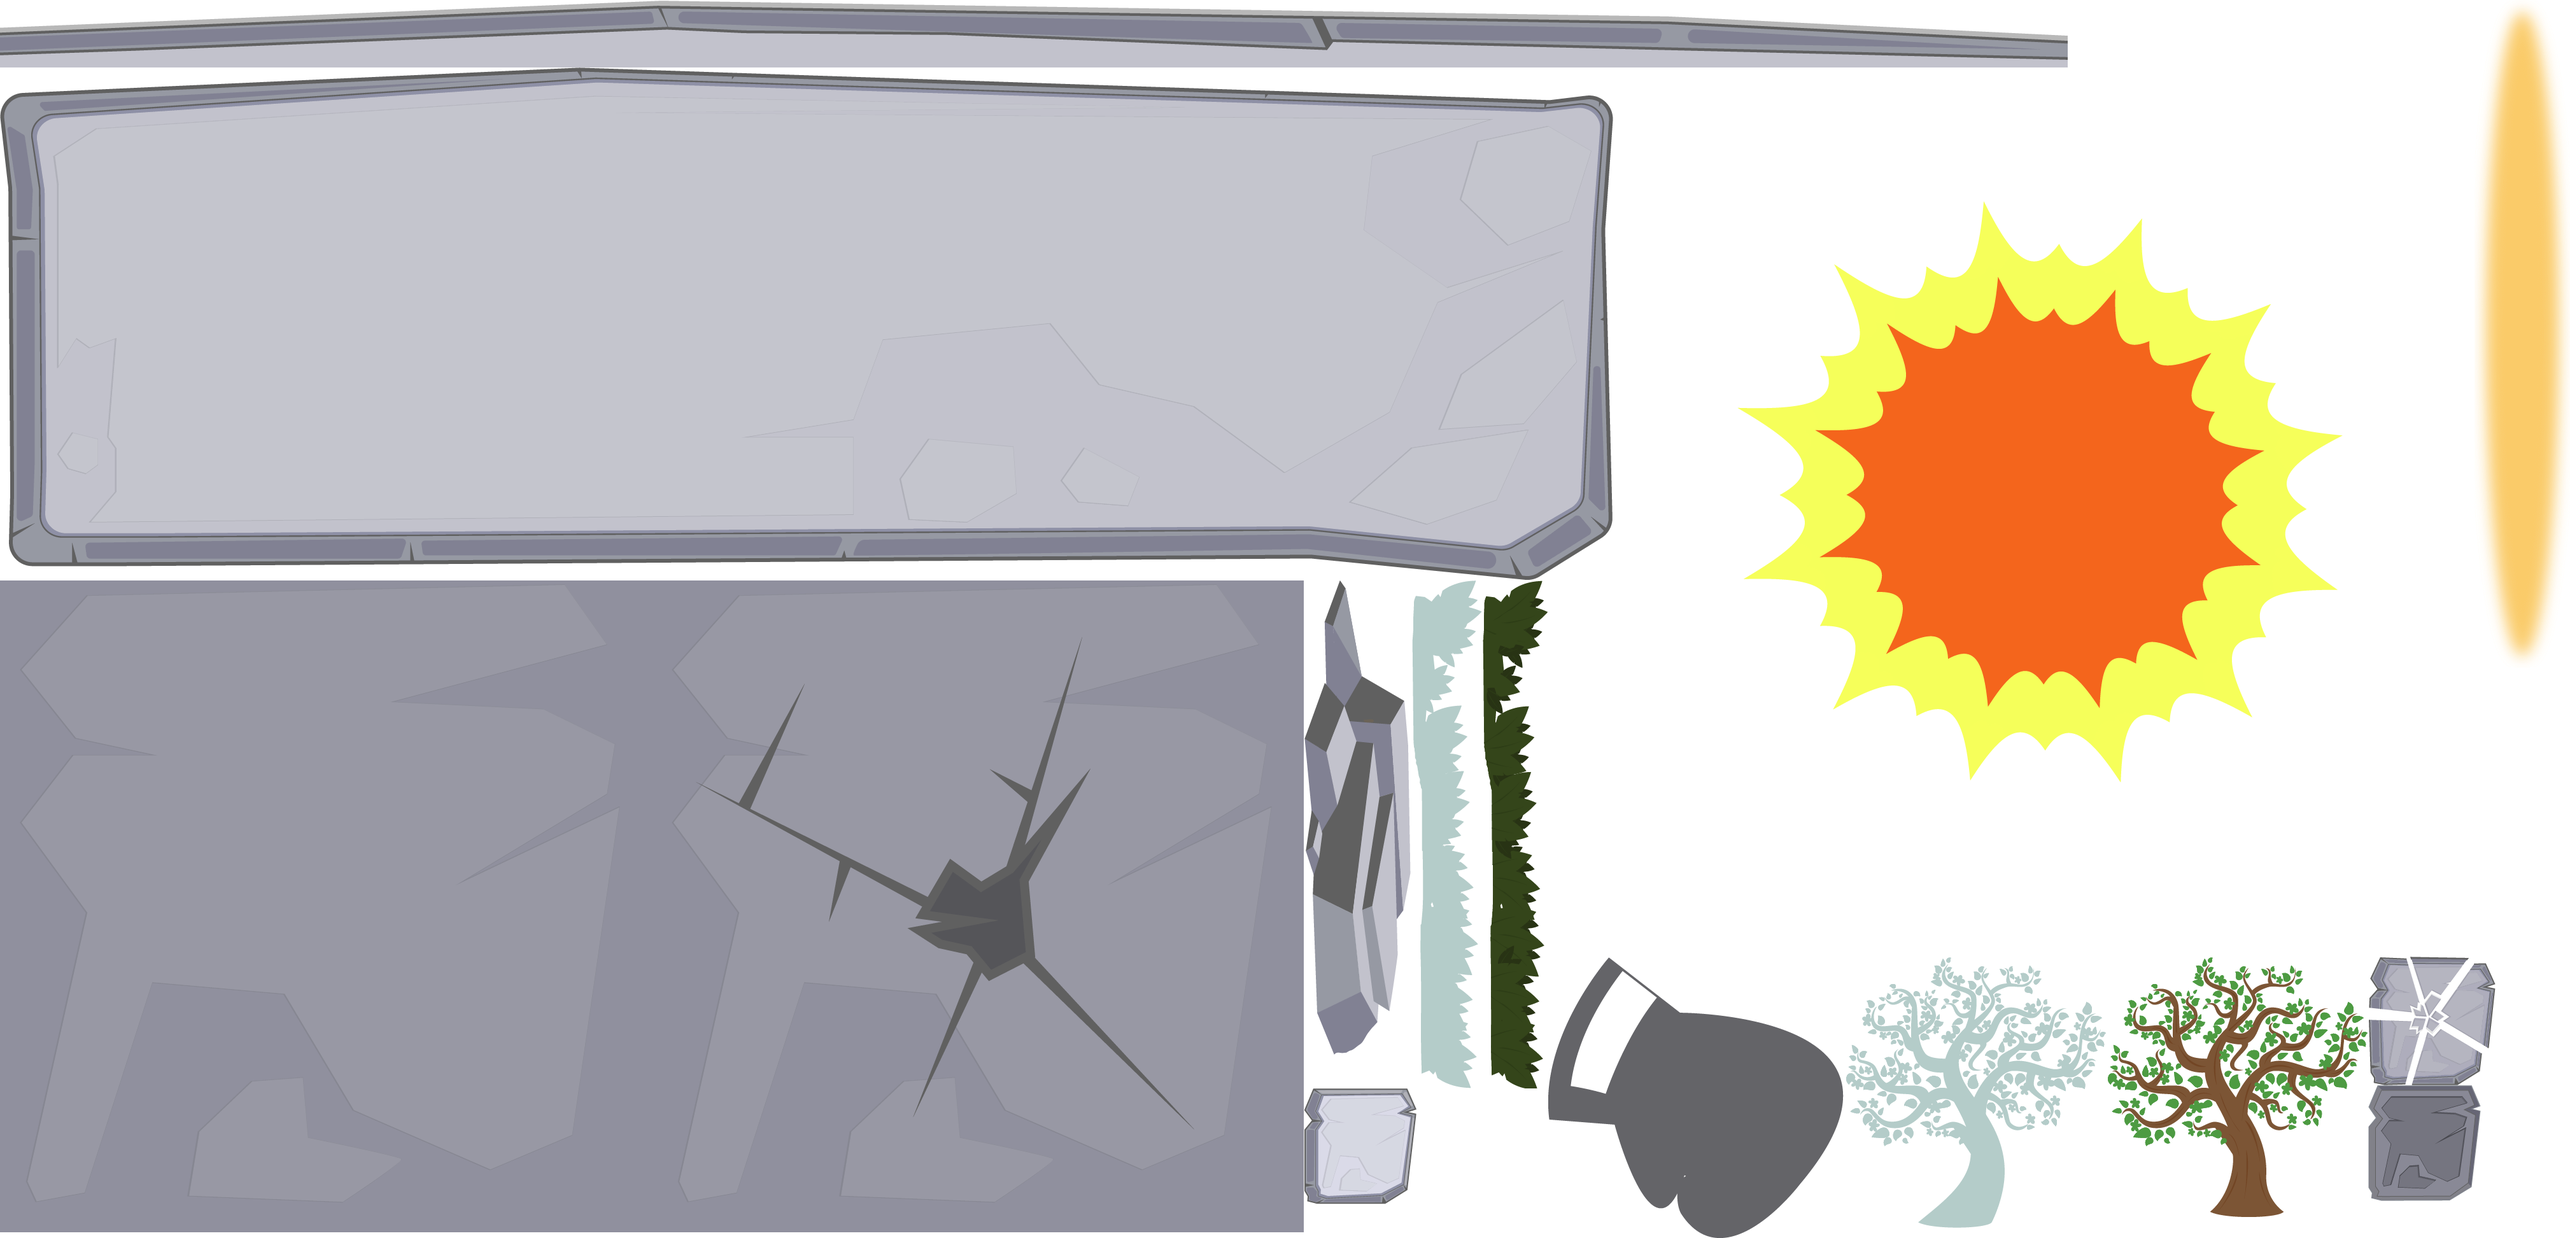
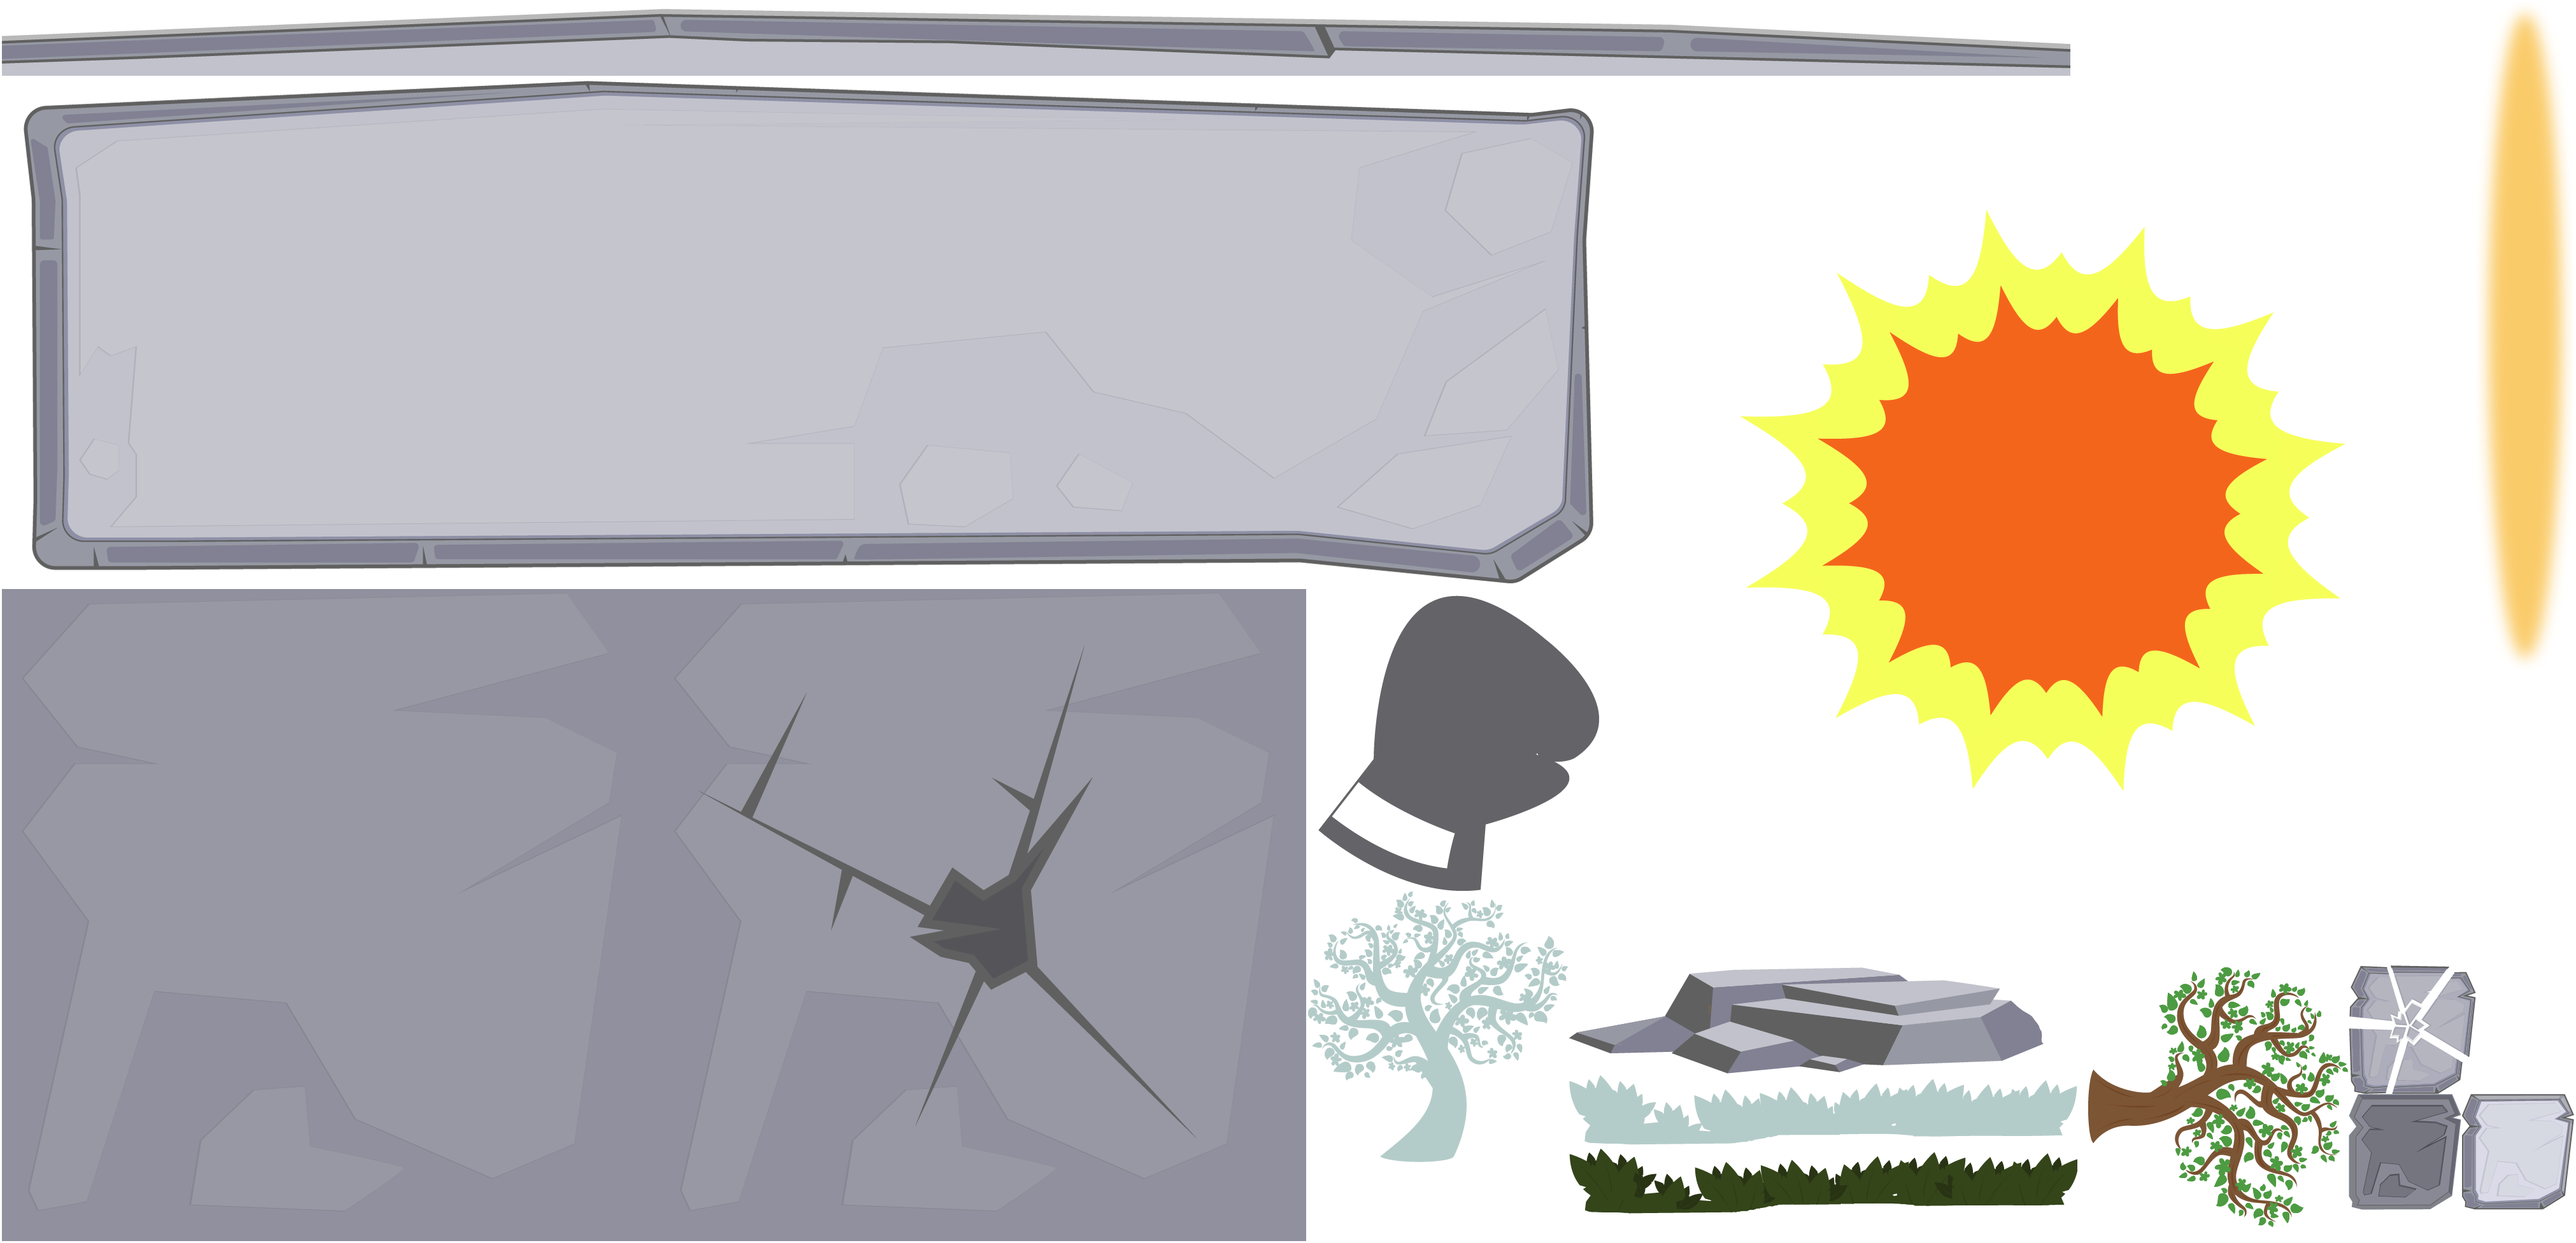
smash the rock

diff --git a/safari/Classes/mini_games/SmashTheRockScene.cpp b/safari/Classes/mini_games/SmashTheRockScene.cpp
@@ -79,10 +79,27 @@ bool SmashTheRock::init()
 	key = alphabetMap.at(mapString.c_str());
 
 
-    background = CSLoader::createNode("smash_de_rock/MainScene.csb");
+    background = CSLoader::createNode("smash_de_rock/bg.csb");
 	//background->setPosition(Point((visibleSize.width / 2) + origin.x, (visibleSize.height / 2) + origin.y));
 	this->addChild(background, 0);
 	
+	centre = CSLoader::createNode("smash_de_rock/center.csb");
+	centre->setPositionX(visibleSize.width / 2);
+	centre->setAnchorPoint(Vec2(0.5,0));
+    this->addChild(centre,1);
+
+	/*auto letterRock = (Sprite *)centre->getChildByName("letterboard");
+	letterRock->setGlobalZOrder(5);
+	auto boundary = (Sprite *)centre->getChildByName("boundary");
+	boundary->setGlobalZOrder(4);
+	auto punchHandLeft = (Sprite *)centre->getChildByName("boxing_gloves_left");
+	punchHandLeft->setGlobalZOrder(3);
+	auto punchHandRight = (Sprite *)centre->getChildByName("boxing_gloves_right");
+	punchHandRight->setGlobalZOrder(3);
+	
+	auto stone_bace = (Sprite *)centre->getChildByName("stone_bace");
+	stone_bace->setGlobalZOrder(0);*/
+
 
 	auto spritecache1 = SpriteFrameCache::getInstance();
 	spritecache1->addSpriteFramesWithFile("smash_de_rock/smashderock_01.plist");
@@ -99,7 +116,7 @@ bool SmashTheRock::init()
 
 	for (int i = 1; i < 4; i++)
 	{
-		int blockHeight = i*(block->getContentSize().height + 20) + 30;
+		int blockHeight = i*(block->getContentSize().height + 20) + 10;
 		sizei = block->getContentSize().height + 20;
 		CCLOG("sizei = %d", sizei);
 		for (int j = 1; j < 12; j++)
@@ -107,7 +124,7 @@ bool SmashTheRock::init()
 			auto block1 = Sprite::createWithSpriteFrameName("smash_de_rock/letter_normal.png");
 			auto right = Sprite::createWithSpriteFrameName("smash_de_rock/letter_correct.png");
 			auto wrong = Sprite::createWithSpriteFrameName("smash_de_rock/letter_wrong.png");
-			int blockWidth = j*(block->getContentSize().width + 30) + 50;
+			int blockWidth = j*(block->getContentSize().width + 30) + 230;
 			sizej = block->getContentSize().width + 30;
 			CCLOG("sizej = %d", sizej);
 			block1->setAnchorPoint(Vec2(0.5, 0.5));
@@ -124,9 +141,12 @@ bool SmashTheRock::init()
 			blockRef.pushBack(block1);
 			rightRef.pushBack(right);
 			wrongRef.pushBack(wrong);
-			this->addChild(block1);
-			this->addChild(right);
-			this->addChild(wrong);
+			this->addChild(block1,2);
+			//block1->setGlobalZOrder(6);
+			this->addChild(right, 2);
+		//	right->setGlobalZOrder(6);
+			this->addChild(wrong, 2);
+		//	wrong->setGlobalZOrder(6);
 			std::string str = Alphabets.at(cocos2d::RandomHelper::random_int(key, (key + 20)) % 20).c_str();
 			char str1 = charkey.at(i-1).at(j-1);
 			std::string ttttt(&str1,1) ;
@@ -141,8 +161,10 @@ bool SmashTheRock::init()
 			label->setAnchorPoint(Vec2::ANCHOR_MIDDLE_BOTTOM);
 			label->setName(ttttt);
 			labelRef.pushBack(label);
-			this->addChild(label,1);
-			
+			CCLOG("alpha = %d", labelRef.size());
+			this->addChild(label, 2);
+		//	label->setGlobalZOrder(6);
+
 			auto listener = EventListenerTouchOneByOne::create();
 			//listener->setSwallowTouches(true);
 			listener->onTouchBegan = CC_CALLBACK_2(SmashTheRock::onTouchBegan, this);
@@ -219,29 +241,24 @@ void SmashTheRock::jump()
 
 
 }
+
 void SmashTheRock :: hit()
 {
-	Size visibleSize = Director::getInstance()->getVisibleSize();
-	Vec2 origin = Director::getInstance()->getVisibleOrigin();
-	auto blast = Sprite::createWithSpriteFrameName("smash_de_rock/hit.png");
-	blast->setPosition(Vec2(origin.x + (visibleSize.width / 2) + 100, origin.y + (visibleSize.height / 2) + 450));
-	this->addChild(blast);
-	blast->setVisible(false);
-	auto action2 = Blink::create(0.25, 1);
-	//blast->runAction(action2);
-	auto tblast = TargetedAction::create(blast, action2);
-	auto boxLeft = background->getChildByName("boxing_gloves_left");
-	auto action = MoveBy::create(0.25, Point(-120, 250));
+	
+
+
+	auto boxLeft = centre->getChildByName("boxing_gloves_left");
+	auto action = MoveBy::create(0.25, Point(-380, 250));
 	auto rev = action->reverse();
-	auto boxRight = background->getChildByName("boxing_gloves_right");
-	auto action1 = MoveBy::create(0.25, Point(500, 250));
+	auto boxRight = centre->getChildByName("boxing_gloves_right");
+	auto action1 = MoveBy::create(0.25, Point(300, 250));
 	auto tRight = TargetedAction::create(boxRight, action1);
 	auto rev1 = tRight->reverse();
 	auto tRev1 = TargetedAction::create(boxRight, rev1); 
 	auto callbackStart = CallFunc::create(CC_CALLBACK_0(SmashTheRock::masking, this));
+	auto callbackStart1 = CallFunc::create(CC_CALLBACK_0(SmashTheRock::blast, this));
 
-
-	auto seq = Sequence::create(action, tblast, rev,  tRight, tblast, tRev1,  callbackStart, NULL);
+	auto seq = Sequence::create(callbackStart1,action,  rev,  tRight, callbackStart1, tRev1,  callbackStart, NULL);
 	boxLeft->runAction(seq);
 	//masking();
 	
@@ -250,7 +267,21 @@ void SmashTheRock :: hit()
 }
 
 
+void SmashTheRock::blast()
+{   
+	Size visibleSize = Director::getInstance()->getVisibleSize();
+	Vec2 origin = Director::getInstance()->getVisibleOrigin();
 
+	auto blast = centre->getChildByName("hit");
+	//blast->setGlobalZOrder(2);
+	auto action2 = Blink::create(0.25, 1);
+	blast->runAction(action2);
+	auto white = centre->getChildByName("white");
+	//white->setGlobalZOrder(2);
+	auto action3 = Blink::create(0.25, 1);
+	white->runAction(action3);
+
+}
 void SmashTheRock::masking()
 {
 	Size visibleSize = Director::getInstance()->getVisibleSize();
@@ -270,10 +301,10 @@ void SmashTheRock::masking()
 
 	maskedFill->setAlphaThreshold(0.9);
 
-	maskedFill->addChild(target,-1);
-	
+	maskedFill->addChild(target);
+	//maskedFill->setGlobalZOrder(3);
 	maskedFill->setContentSize(cocos2d::Size(300, 300));
-	maskedFill->setPosition(Vec2(origin.x + (visibleSize.width / 2) + 100 , origin.y + (visibleSize.height / 2) + 450));
+	maskedFill->setPosition(Vec2(origin.x + (visibleSize.width / 2)  , origin.y + (visibleSize.height / 2) + 480));
 	//maskedFill->setAnchorPoint(Vec2(0.5,0.5));
 	//Texture2D::TexParams tp = { GL_LINEAR, GL_LINEAR, GL_REPEAT, GL_REPEAT };
 	//maskedFill->draw();
@@ -296,6 +327,7 @@ void SmashTheRock::masking()
 //	target->setTextureRect(Rect(400, 400, 2000, 2000));
 	target->setAnchorPoint(Vec2(0.5, 0.5));
 	this->addChild(maskedFill);
+	//maskedFill->setGlobalZOrder(3);
 }
 bool SmashTheRock::onTouchBegan(cocos2d::Touch *touch, cocos2d::Event * event)
 {
@@ -314,13 +346,17 @@ bool SmashTheRock::onTouchBegan(cocos2d::Touch *touch, cocos2d::Event * event)
 			int indexj = (target->getPositionX());
 			int indexi = (target->getPositionY());
 			CCLOG("target x = %d", indexi);
-			int tempi = ((indexi - 100) / sizei) ;
-			int tempj = (indexj - 50) / sizej;
+			int tempi = ((indexi + 120) / sizei)-1 ;
+			int tempj = ((indexj - 230) / sizej)-1;
 			CCLOG("tempi x = %d", tempi);
 			CCLOG("tempj x = %d", tempj);
-			val = ((tempi) * 11) + tempj-1;
+			val = ((tempi) * 11) + tempj;
+			CCLOG("val x = %d", val);
+
 			auto showright = rightRef.at(val);
 			showright->setVisible(true);
+			this->removeChild(blockRef.at(val));
+
 			_eventDispatcher->removeEventListenersForTarget(target, false);
 			hit();
 			click++;
@@ -335,14 +371,18 @@ bool SmashTheRock::onTouchBegan(cocos2d::Touch *touch, cocos2d::Event * event)
 			int indexj1 = (target->getPositionX());
 			int indexi1 = (target->getPositionY());
 			CCLOG("target x = %d", indexi1);
-			int tempi1 = (indexi1 - 100) / sizei;
-			int tempj1 = (indexj1 - 50) / sizej;
+			int tempi1 = ((indexi1 + 120) / sizei)-1;
+			int tempj1 = ((indexj1 - 230) / sizej)-1;
 			CCLOG("tempi1 x = %d", tempi1);
 			CCLOG("tempj1 x = %d", tempj1);
-			val1 = ((tempi1) * 11) + tempj1-1;
+			val1 = ((tempi1) * 11) + tempj1;
+			CCLOG("val1 x = %d", val1);
 			auto showwrong = wrongRef.at(val1);
 			showwrong->setVisible(true);
+			CCLOG("size of label = %d", labelRef.size());
 			this->removeChild(labelRef.at(val1));
+			this->removeChild(blockRef.at(val1));
+			
 			return false;
 		}
 		

diff --git a/safari/Classes/mini_games/SmashTheRockScene.h b/safari/Classes/mini_games/SmashTheRockScene.h
@@ -35,12 +35,13 @@ public:
 	cocos2d::Label* label;
 	
 	cocos2d::Node* background;
+	cocos2d::Node* centre;
 	cocos2d::ClippingNode* maskedFill = nullptr;
 	void update(float dt);
 	virtual void masking();
 	virtual void jump();
 	virtual void hit();
-	
+	virtual void blast();
 	virtual void createSkeletonCharacter();
 	void addMainCharacterToScene(cocostudio::timeline::SkeletonNode* skeleton);
 	// implement the "static create()" method manually
